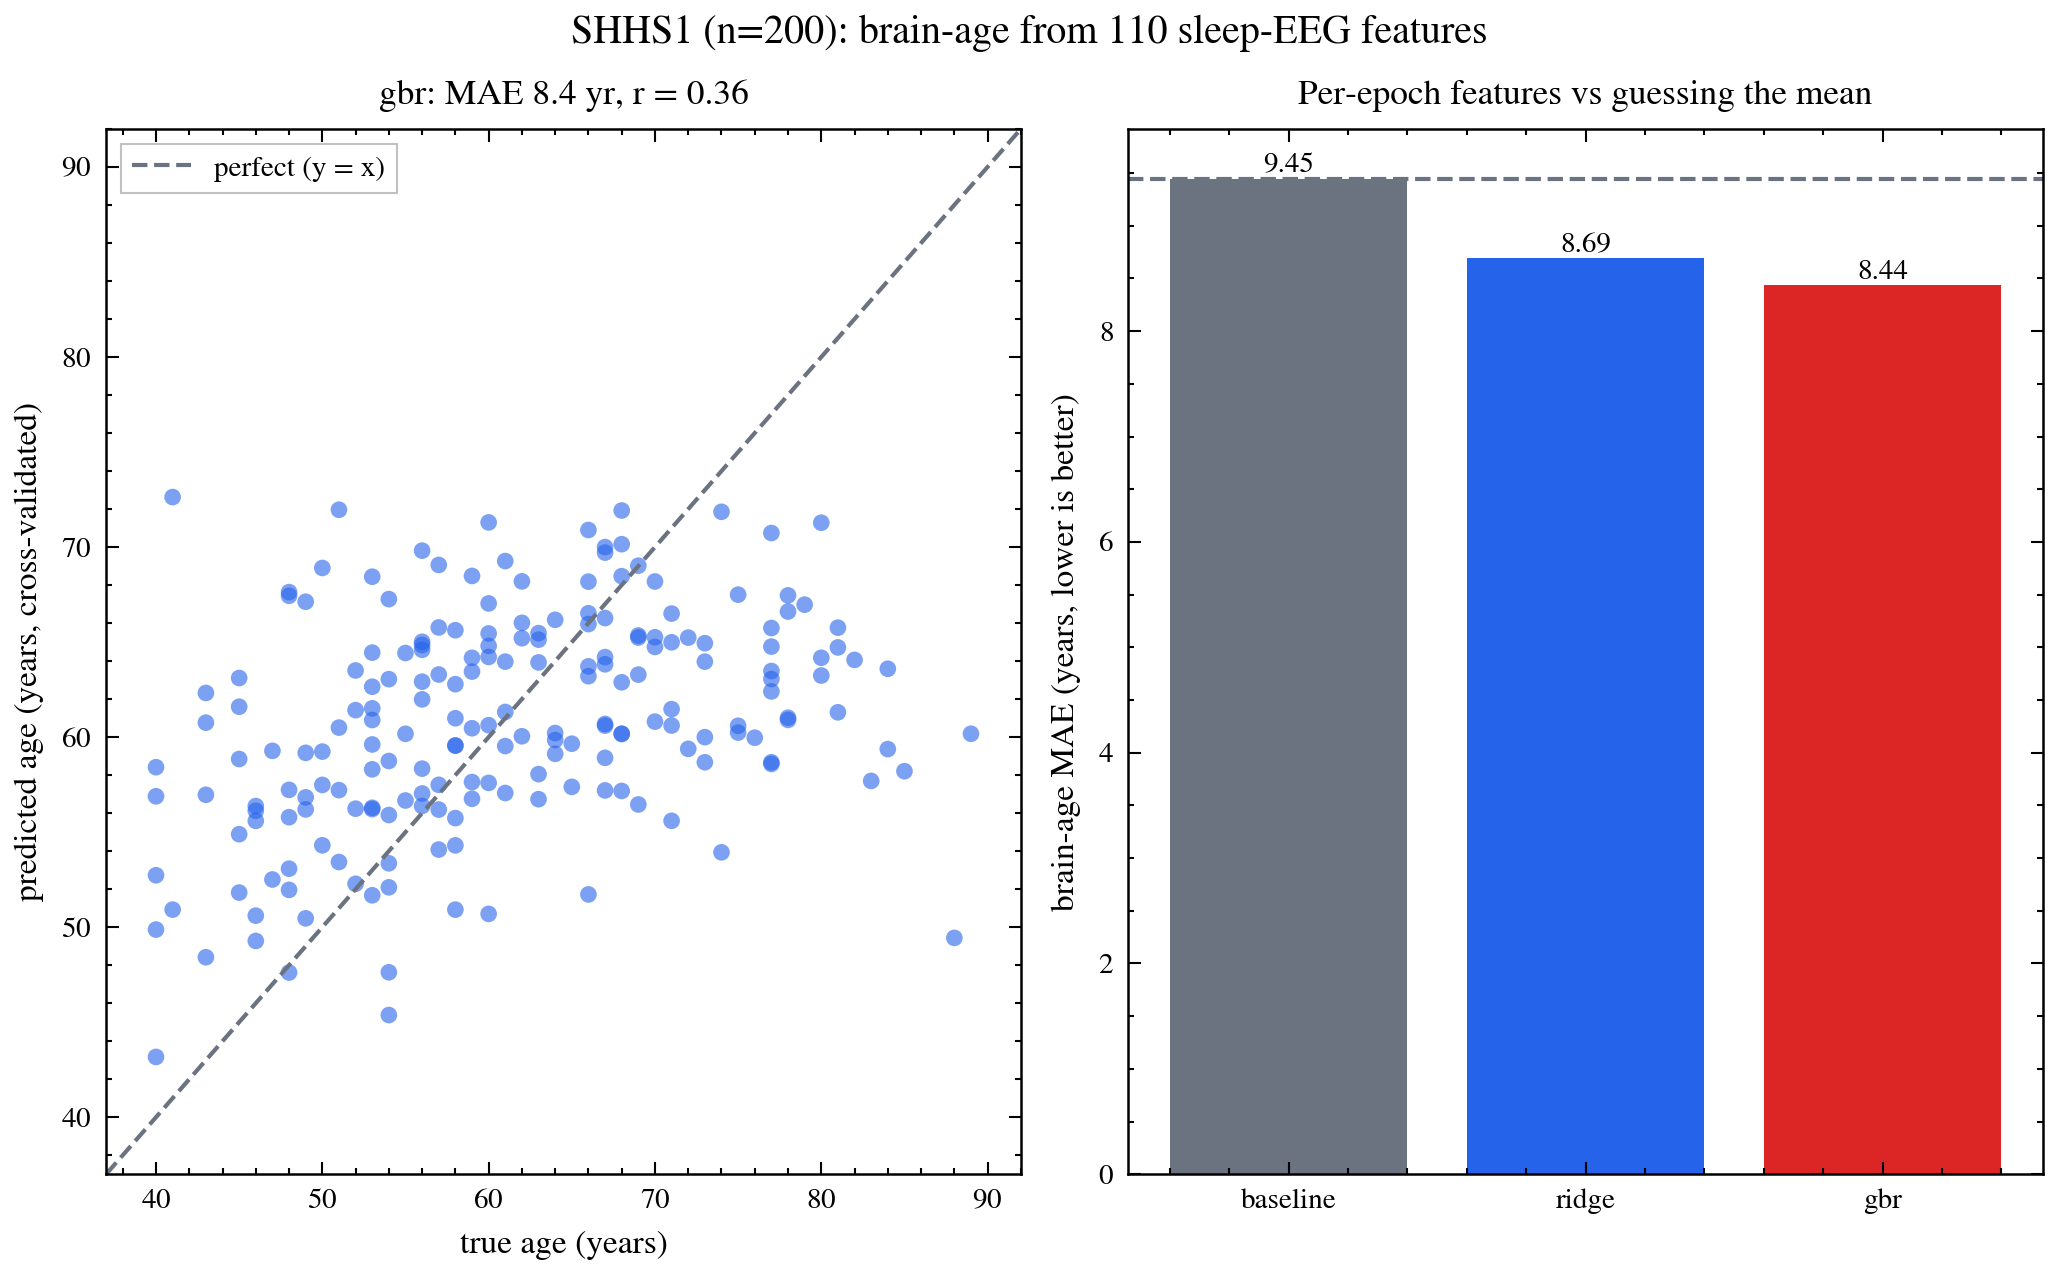
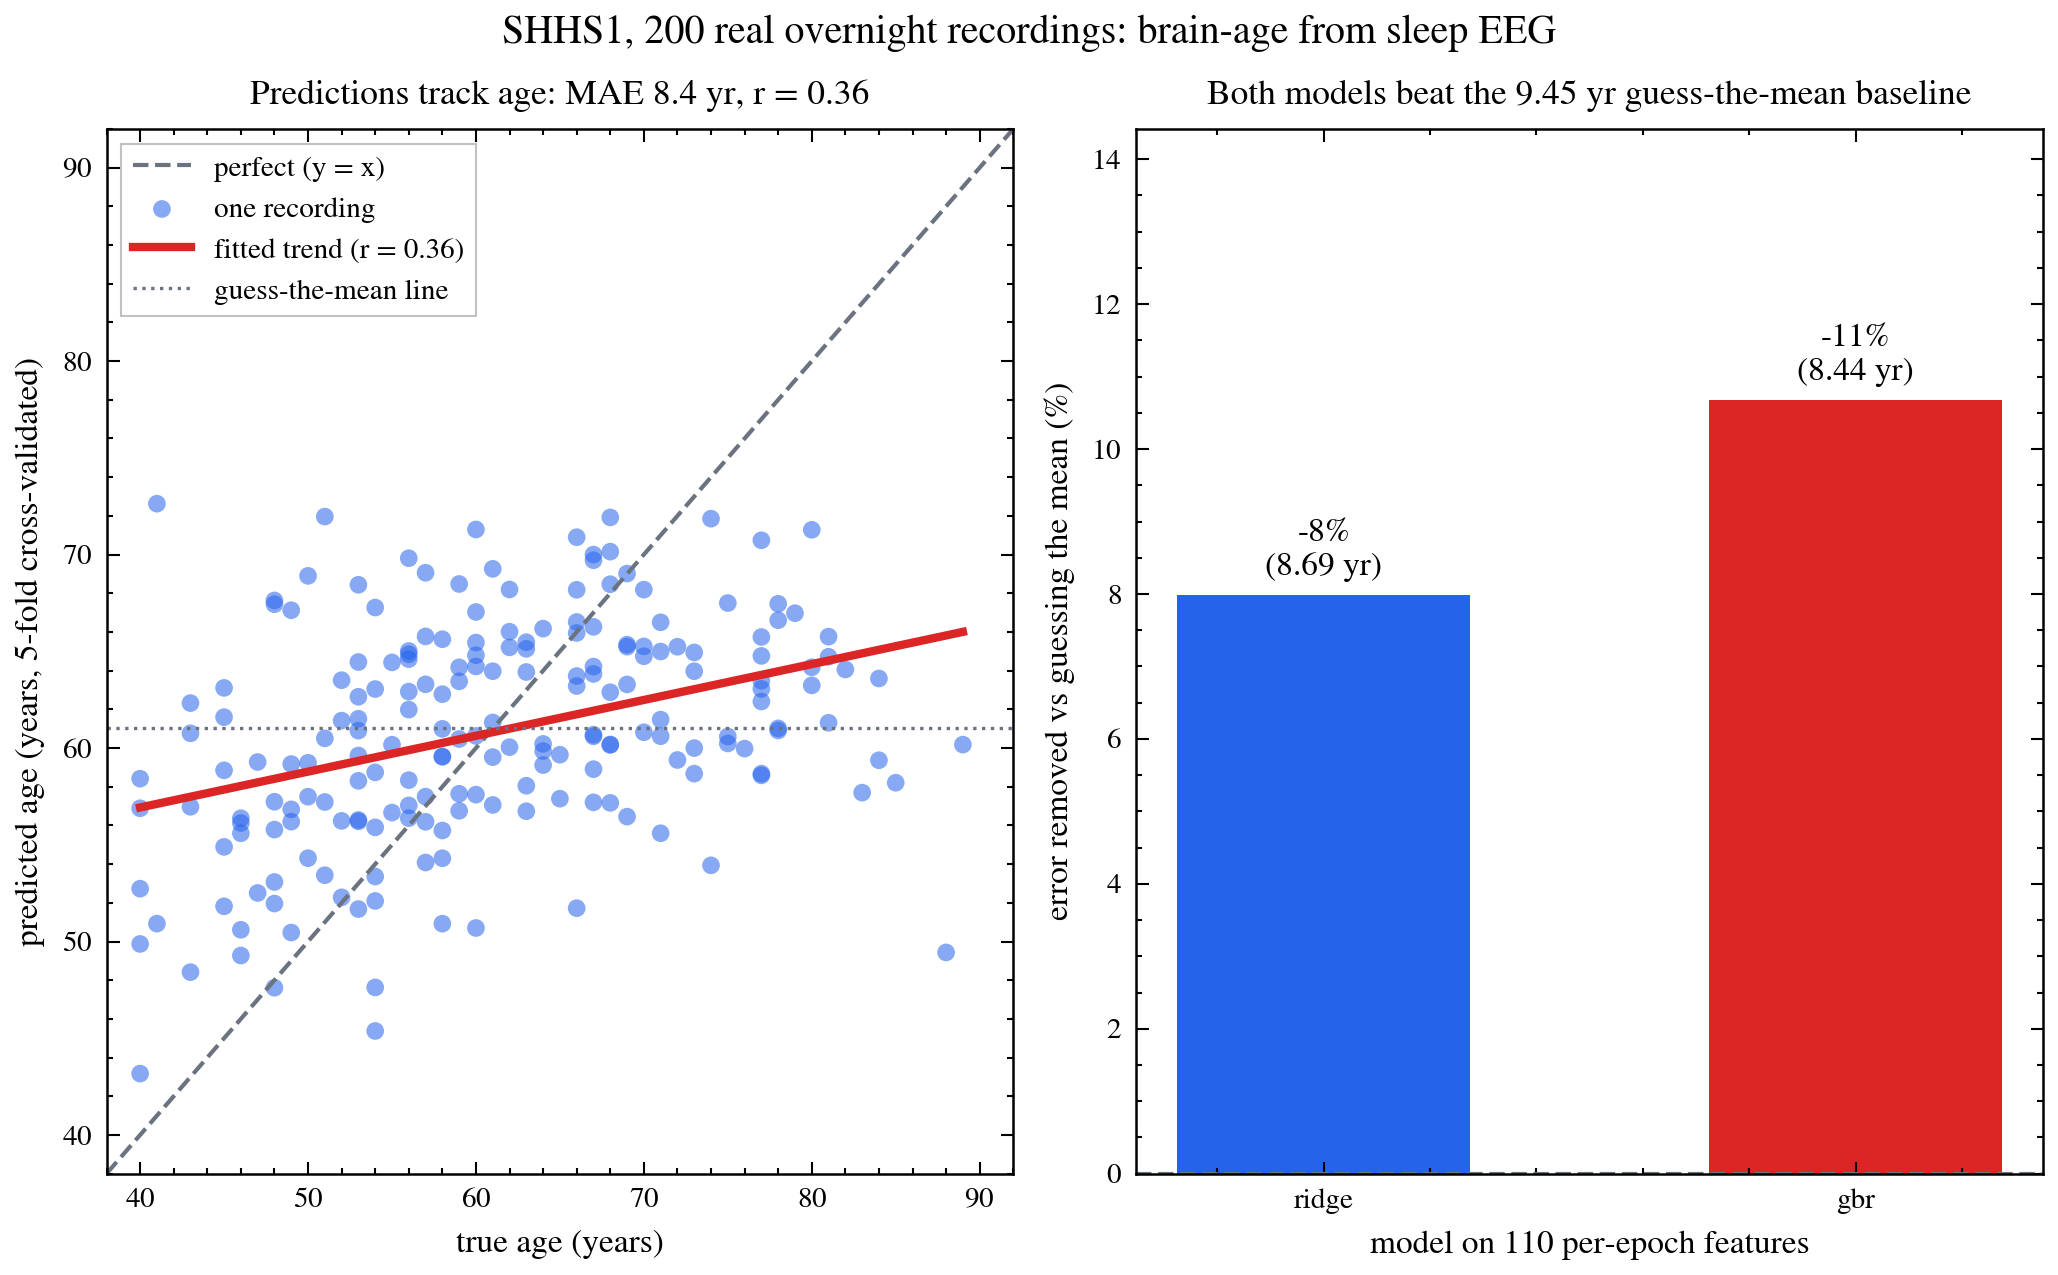
Redraw figure after visual review: clearer panels, real-data front and center

diff --git a/scripts/shhs_brainage_rich.py b/scripts/shhs_brainage_rich.py
@@ -64,28 +64,39 @@ def main():
     os.makedirs(os.path.dirname(args.out_json) or ".", exist_ok=True)
     json.dump(out, open(args.out_json, "w"), indent=2)
 
-    # Figure: best model pred vs true (left), MAE by model vs baseline (right)
+    # Figure. Left: best model pred vs true with fitted trend so the correlation
+    # is visible, not just a blob. Right: how much of the baseline error each
+    # model removes, so 9.45 -> 8.44 reads as a real gap instead of a tie.
     fs.use_paper_style()
     fig, (axA, axB) = fs.new_figure(cols=2, panels=2)
-    p = preds[best]; lo, hi = y.min() - 3, y.max() + 3
+    p = preds[best]; lo, hi = 38, 92
     axA.plot([lo, hi], [lo, hi], color=fs.PALETTE[7], lw=1, ls="--", label="perfect (y = x)")
-    axA.scatter(y, p, s=16, color=fs.PALETTE[0], alpha=0.6, edgecolor="none")
+    axA.scatter(y, p, s=18, color=fs.PALETTE[0], alpha=0.55, edgecolor="none", label="one recording")
+    m_, b_ = np.polyfit(y, p, 1)
+    xx = np.array([y.min(), y.max()])
+    axA.plot(xx, m_ * xx + b_, color=fs.PALETTE[3], lw=2,
+             label=f"fitted trend (r = {scores[best]['pearson_r']:.2f})")
+    axA.axhline(y.mean(), color=fs.PALETTE[7], lw=0.8, ls=":", label="guess-the-mean line")
     axA.set_xlim(lo, hi); axA.set_ylim(lo, hi)
-    axA.set_xlabel("true age (years)"); axA.set_ylabel("predicted age (years, cross-validated)")
-    axA.set_title(f"{best}: MAE {scores[best]['mae']:.1f} yr, r = {scores[best]['pearson_r']:.2f}")
-    fs.opaque_legend(axA)
+    axA.set_xlabel("true age (years)")
+    axA.set_ylabel("predicted age (years, 5-fold cross-validated)")
+    axA.set_title(f"Predictions track age: MAE {scores[best]['mae']:.1f} yr, r = {scores[best]['pearson_r']:.2f}")
+    fs.opaque_legend(axA, loc="upper left")
 
-    names = ["baseline"] + list(scores)
-    maes = [baseline] + [scores[k]["mae"] for k in scores]
-    cols = [fs.PALETTE[7]] + [fs.PALETTE[0] if k != best else fs.PALETTE[3] for k in scores]
-    axB.bar(names, maes, color=cols)
-    axB.axhline(baseline, color=fs.PALETTE[7], ls="--", lw=1)
-    axB.set_ylabel("brain-age MAE (years, lower is better)")
-    axB.set_title("Per-epoch features vs guessing the mean")
-    for i, v in enumerate(maes):
-        axB.annotate(f"{v:.2f}", (i, v), ha="center", va="bottom", fontsize=7)
+    names = ["ridge", "gbr"]
+    reduction = [100.0 * (baseline - scores[k]["mae"]) / baseline for k in names]
+    cols = [fs.PALETTE[0] if k != best else fs.PALETTE[3] for k in names]
+    bars = axB.bar(names, reduction, color=cols, width=0.55)
+    axB.axhline(0, color=fs.PALETTE[7], lw=1, ls="--")
+    axB.set_ylabel("error removed vs guessing the mean (%)")
+    axB.set_xlabel("model on 110 per-epoch features")
+    axB.set_title(f"Both models beat the {baseline:.2f} yr guess-the-mean baseline")
+    axB.set_ylim(0, max(reduction) * 1.35)
+    for bar, k, r in zip(bars, names, reduction):
+        axB.annotate(f"-{r:.0f}%\n({scores[k]['mae']:.2f} yr)", (bar.get_x() + bar.get_width() / 2, r),
+                     ha="center", va="bottom", fontsize=8, xytext=(0, 3), textcoords="offset points")
 
-    fig.suptitle(f"SHHS1 (n={n}): brain-age from {nf} sleep-EEG features")
+    fig.suptitle(f"SHHS1, {n} real overnight recordings: brain-age from sleep EEG")
     fs.assert_no_clip(fig)
     os.makedirs(os.path.dirname(args.out_fig) or ".", exist_ok=True)
     fs.save(fig, args.out_fig)
